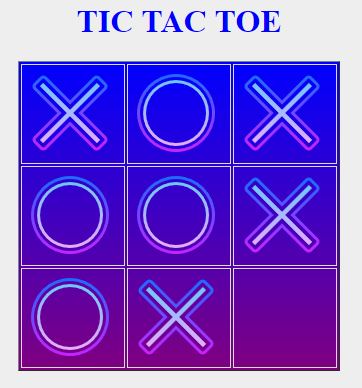
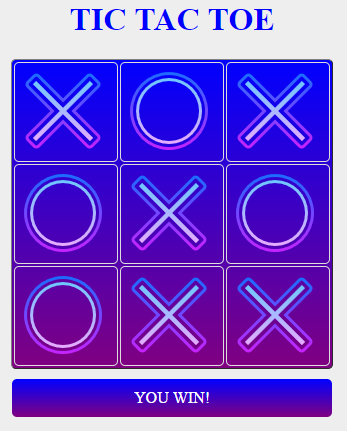
Added a play again button

diff --git a/static/js/main.js b/static/js/main.js
@@ -12,12 +12,15 @@ var gameFinished = false;
 const nPlayer1 = 1;
 const nPlayer2 = 2;
 
+var startingPlayer = nPlayer1;
+
 // The path for the image for the players
 const imgPlayer1 = 'url("static/img/p1.png")';
 const imgPlayer2 = 'url("static/img/p2.png")';
 
 var board = document.getElementById("board");
 var winnerMessageBox = document.getElementById("winnerMessageBox");
+var playAgainButton = document.getElementById("playAgainButton");
 
 // Register the onClick function for each cell in the table (board)
 for (var row = 0; row < board.rows.length; row++) {
@@ -159,7 +162,7 @@ function showWinner(winnerNumber) {
 		winnerMessageBox.innerHTML = "DRAW!";
 	}
 	winnerMessageBox.style.display = 'block';
-	//reset();
+	playAgainButton.style.display  = 'block';
 }
 
 // Reset the game
@@ -180,6 +183,14 @@ function reset() {
 	// Remove the winner message box
 	winnerMessageBox.innerHTML = "";
 	winnerMessageBox.style.display = 'none';
+	playAgainButton.style.display  = 'none';
 
 	gameFinished = false;
+
+	if (startingPlayer == nPlayer1) {
+		startingPlayer = nPlayer2;
+		robotEasy();
+	} else {
+		startingPlayer = nPlayer1;
+	}
 }

diff --git a/static/css/style.css b/static/css/style.css
@@ -10,7 +10,8 @@ th, td {
 	text-align: center;
 	cursor: pointer;
 	font-size: 0;
-	border: 1px solid #ddd;
+	border: 1px solid #aab9ff;
+	border-radius: 5px;
 }
 
 h1 {
@@ -23,18 +24,28 @@ h1 {
 	background: -o-linear-gradient(blue, purple); /* For Opera 11.1 to 12.0 */
 	background: -moz-linear-gradient(blue, purple); /* For Firefox 3.6 to 15 */
 	background: linear-gradient(blue, purple); /* Standard syntax */
+	border-radius: 5px;
 }
 
-#winnerMessageBox {
+.hiddenMessages {
 	background: blue; /* For browsers that do not support gradients */
 	background: -webkit-linear-gradient(blue, purple); /* For Safari 5.1 to 6.0 */
 	background: -o-linear-gradient(blue, purple); /* For Opera 11.1 to 12.0 */
 	background: -moz-linear-gradient(blue, purple); /* For Firefox 3.6 to 15 */
 	background: linear-gradient(blue, purple); /* Standard syntax */
 	color: white;
+	border: 0px solid white;
 	border-radius: 5px;
 	margin: 10px;
 	padding: 10px;
-	width: 300px;
 	display: none;
+}
+
+#winnerMessageBox {
+	width: 300px;
+}
+
+#playAgainButton {
+	cursor: pointer;
+	min-width: 300px;
 }

diff --git a/index.html b/index.html
@@ -26,7 +26,8 @@
 					<td>2,2</td>
 				</tr>
 			</table>
-			<div id="winnerMessageBox"></div>
+			<div class="hiddenMessages" id="winnerMessageBox"></div>
+			<button class="hiddenMessages" id="playAgainButton" onclick="reset()">PLAY AGAIN</button>
 		</div>
 		<script language="Javascript" type="text/javascript" src="static/js/main.js"></script>
 	</body>
